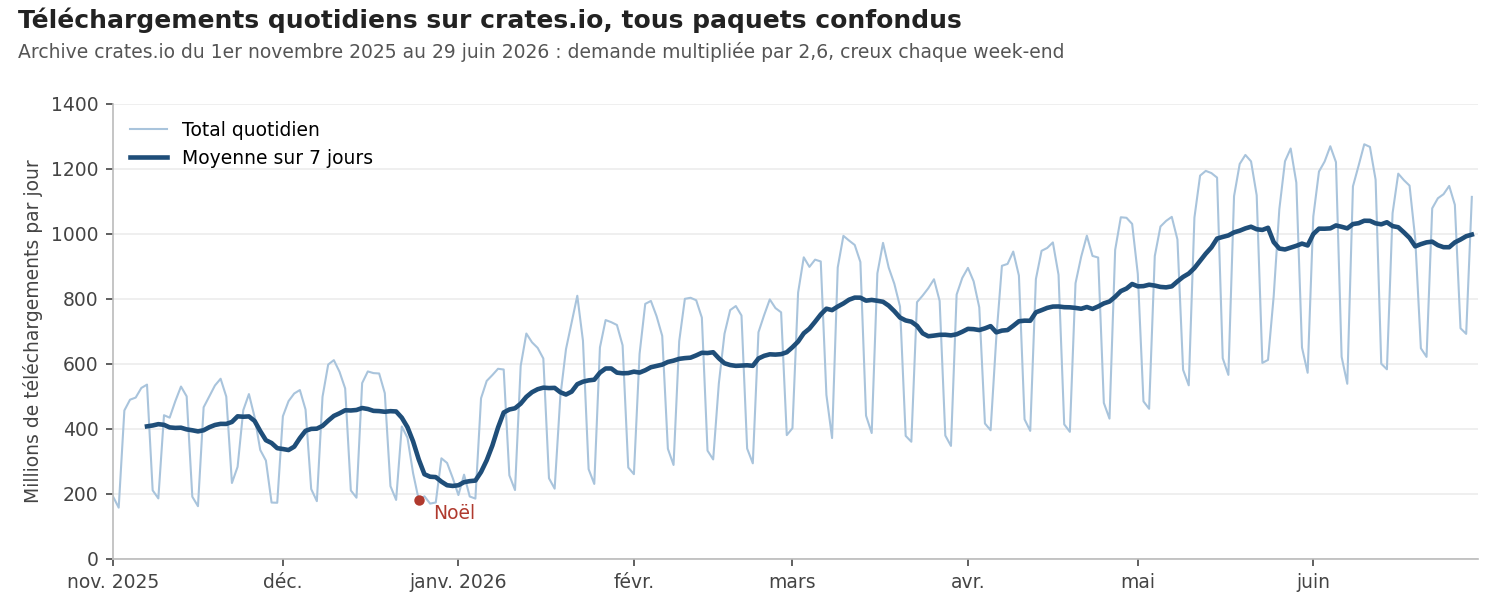
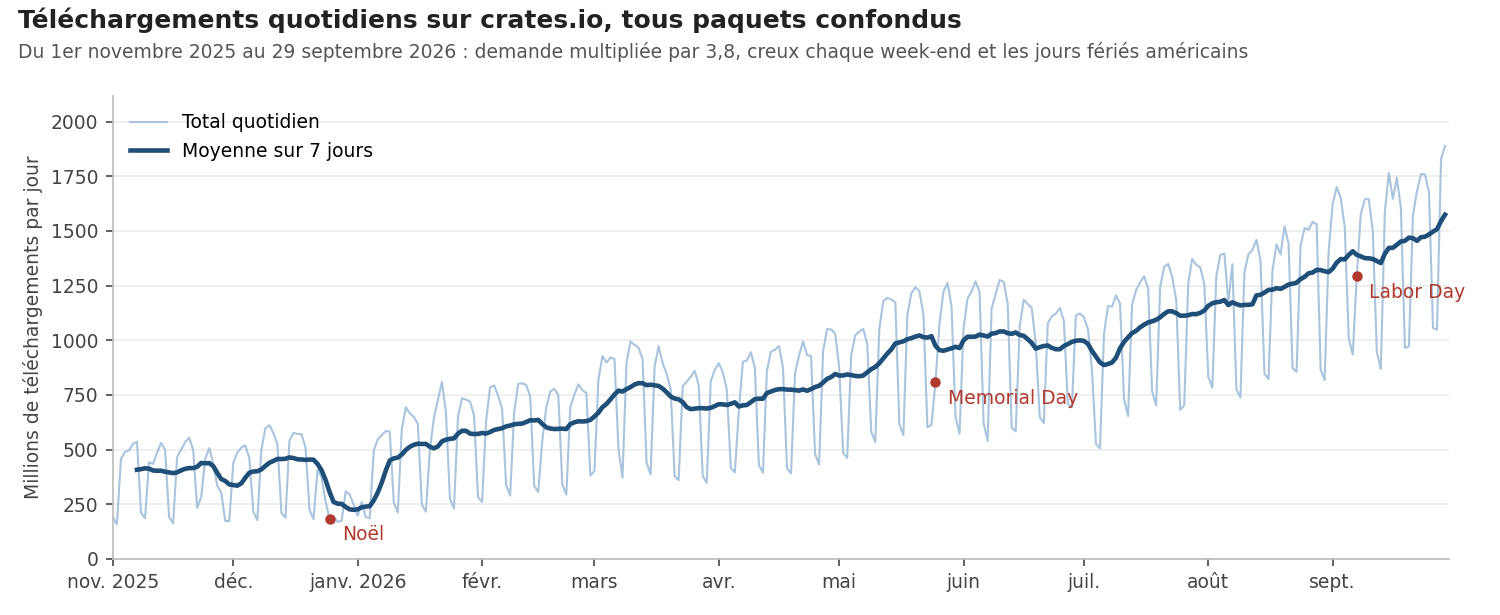
Relecture finale du README et du tableau de bord

diff --git a/site/index.html b/site/index.html
@@ -4,6 +4,9 @@
   <meta charset="utf-8">
   <meta name="viewport" content="width=device-width, initial-scale=1">
   <title>PkgPulse : téléchargements de crates.io et prévisions</title>
+  <meta name="description" content="Prévisions quotidiennes des téléchargements de crates.io à J+1 et J+7, avec intervalles à 90 % et anomalies.">
+  <meta property="og:title" content="PkgPulse : téléchargements de crates.io et prévisions">
+  <meta property="og:description" content="Pipeline data quotidien sur les téléchargements réels de crates.io : prévisions, intervalles et anomalies.">
   <link rel="stylesheet" href="style.css">
   <script src="https://cdn.jsdelivr.net/npm/chart.js@4.5.1/dist/chart.umd.min.js" defer></script>
   <script src="app.js" defer></script>

diff --git a/README.md b/README.md
@@ -15,12 +15,16 @@ surveille sa propre erreur et détecte les anomalies. Le problème est celui de 
 demande dans le retail : saisonnalité hebdomadaire, zéros, effets de nouvelles versions, pics
 exogènes.
 
+**Stack** : Python 3.14, DuckDB, dbt, BigQuery, LightGBM, statsforecast, MLflow, FastAPI, Docker,
+Cloud Run, Terraform, Airflow, GitHub Actions.
+
 ![Téléchargements quotidiens sur crates.io](docs/img/telechargements_quotidiens.png)
 
 ## Résultats
 
 MASE moyenne par série sur 20 origines de validation, du 18 avril au 17 septembre 2026, jamais
-utilisées pour concevoir le modèle. Sous 1, on bat le naïf saisonnier.
+utilisées pour concevoir le modèle. Sous 1, on bat le naïf saisonnier. Chiffres du 30 septembre
+2026 ; le pipeline les recalcule chaque jour dans la [release gold](../../releases/tag/gold).
 
 | Série | Horizon | Naïf saisonnier | ETS | LightGBM | Gain sur la meilleure référence |
 |---|---|---|---|---|---|
@@ -41,27 +45,23 @@ utilisées pour concevoir le modèle. Sous 1, on bat le naïf saisonnier.
 
 ## Points clés
 
-- **Ingestion idempotente** : un jour correspond à un fichier Parquet remplacé de façon atomique.
-  Relancer ne crée jamais de doublon ; une exécution interrompue reprend au premier jour manquant,
-  ce qui a servi pour de vrai après une erreur HTTP 500 de crates.io.
-- **Données tardives** : l'archive, définitive mais en retard de trois mois, et le dump quotidien
-  des 90 derniers jours sont joints par une règle testée.
-- **Contrats de schéma** : crates.io ne garantit pas son schéma ; une colonne manquante ou une clé
-  en double arrête l'ingestion avant toute écriture.
-- **dbt en architecture médaillon**, sur DuckDB et sur BigQuery : 10 modèles, 33 tests (unicité,
-  fraîcheur, jours manquants, chute de volume) et un snapshot de l'historique des paquets.
-- **Prévision** : un modèle LightGBM global par horizon, appris sur les 260 séries, comparé au
-  naïf saisonnier et à ETS en backtest glissant, avec des tests anti-fuite. Conception et
-  validation sur des origines séparées ; runs et modèles suivis dans MLflow.
-- **Monitoring** : erreur réalisée de chaque prévision, MASE glissante sur 7 jours et seuil tiré
-  du backtest. En cas de dérive, un challenger prévoit en parallèle du champion et n'est promu que
-  s'il fait mieux sur les mêmes jours.
-- **Détection d'anomalies** : score robuste sur les résidus de prévision.
+- **Ingestion idempotente et données tardives** : un jour correspond à un fichier Parquet remplacé
+  de façon atomique ; l'archive définitive et le dump des 90 derniers jours sont joints par une
+  règle testée. Une relance ne crée jamais de doublon, ce qui a servi pour de vrai après une
+  erreur HTTP 500 de crates.io.
+- **Qualité des données** : contrats de schéma à l'ingestion, dbt en architecture médaillon sur
+  DuckDB et BigQuery (10 modèles, 33 tests dont fraîcheur, jours manquants et chute de volume) et
+  snapshot de l'historique des paquets.
+- **Prévision** : un LightGBM global par horizon pour 260 séries, comparé au naïf saisonnier et à
+  ETS en backtest glissant ; conception et validation sur des origines séparées, tests anti-fuite,
+  intervalles conformels et suivi MLflow.
+- **MLOps** : erreur réalisée et MASE glissante chaque jour, seuil de dérive tiré du backtest, et
+  challenger en mode fantôme, promu seulement s'il fait mieux que le champion.
 - **Cloud et CI/CD** : infrastructure GCP en Terraform, API FastAPI sur Cloud Run redéployée à
-  chaque push, DAG Airflow et pipeline quotidien dans GitHub Actions, surveillé.
+  chaque push, pipeline quotidien dans GitHub Actions et DAG Airflow équivalent, surveillés.
 - **Données ouvertes** : agrégats, prévisions et résultats du backtest publiés chaque jour dans la
   [release gold](../../releases/tag/gold).
-- **Qualité** : 48 tests pytest, dont un faux serveur crates.io et une dérive simulée, CI et
+- **Code testé** : 48 tests pytest, dont un faux serveur crates.io et une dérive simulée, CI et
   pre-commit.
 
 ## Architecture
@@ -112,7 +112,7 @@ curl "https://pkgpulse-api-bnhde7a6fa-uc.a.run.app/forecast?series=paquet:serde"
 
 ## Ce que disent les données
 
-- **La demande a été multipliée par 2,6** entre novembre 2025 et juin 2026 : de 382 à 1 008
+- **La demande a été multipliée par 3,8** entre novembre 2025 et septembre 2026 : de 382 à 1 464
   millions de téléchargements par jour, en moyenne mensuelle.
 - **La saisonnalité hebdomadaire est forte** : un dimanche pèse environ la moitié d'un mardi.
 - **Le calendrier américain pèse** : les plus fortes anomalies tombent le 25 mai (Memorial Day)
@@ -174,4 +174,4 @@ docs/                   cadrage, journal des décisions, étude de cas
 - [Étude de cas du 21 juin 2026](docs/etude-de-cas-21-juin-2026.md).
 
 Données : dumps publics de crates.io, utilisés dans le respect de leur politique d'accès. Seuls des
-agrégats sont publiés.
+agrégats sont publiés. Code sous licence MIT.
